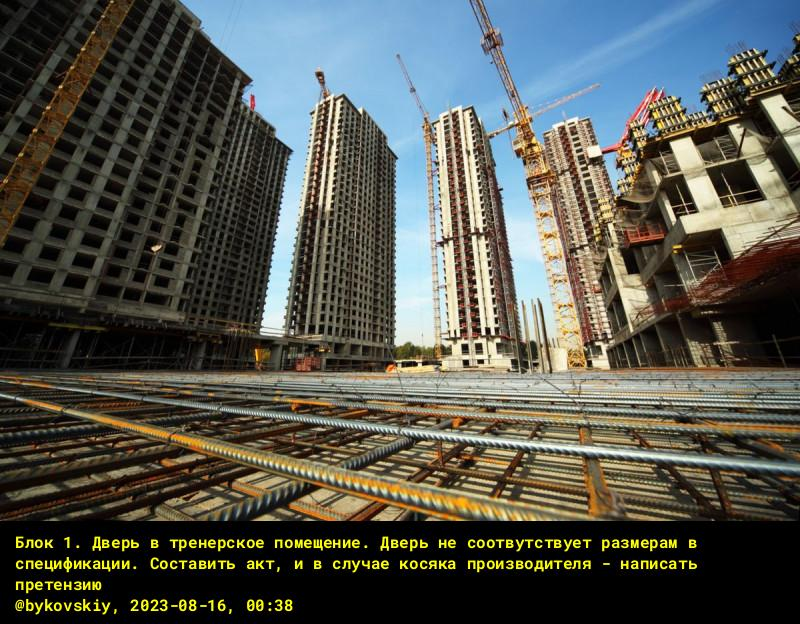
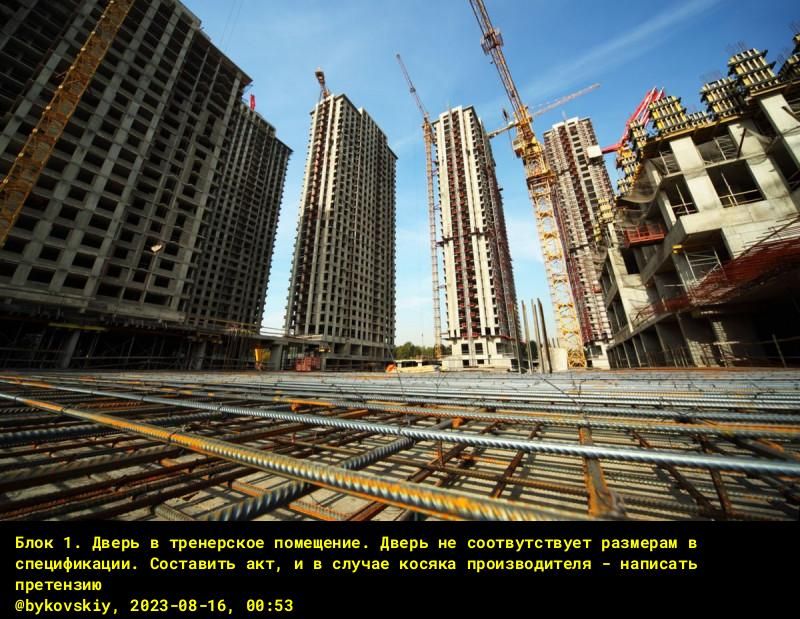
update

diff --git a/main.py b/main.py
@@ -40,15 +40,16 @@ def add_message(image, text, font, text_color, text_start_height, fontsize, spac
     return y_text + fontsize*spacing * math.ceil((len(text) / max_char_count))
     
 
-def make_wrapper(fontsize, text, image, spacing, padding_bottom):
+def make_wrapper(font, fontsize, text, image, spacing, padding_bottom):
     sender_mark_space = 45 + padding_bottom
     
-    lines = textwrap.wrap(text, width=image.width // 10)
+    #lines = textwrap.wrap(text, width=image.width // 10)
     
-    extra_bound_size = 0
-    for _ in lines:
-        extra_bound_size += fontsize*spacing
-    extra_bound_size += sender_mark_space
+    text, max_char_count = get_text_wrapper(font, image, text)
+    #extra_bound_size = 0
+    # for _ in lines:
+    #     extra_bound_size += fontsize*spacing
+    extra_bound_size = sender_mark_space + fontsize*spacing * math.ceil((len(text) / max_char_count))
         
     wrapper = Image.new("RGB", (image.width, image.height + int(extra_bound_size)), "black")
     wrapper.paste(image, (0,0))
@@ -62,7 +63,7 @@ def sender_mark(image_wrapper, message_sender, text_start, font, text_color, pad
     date = current_time.strftime('%Y-%m-%d')
     timer = current_time.strftime('%H:%M')
     
-    text =  f'@{message_sender}, {date}, {timer}'
+    text = f'@{message_sender}, {date}, {timer}'
     #lines = textwrap.wrap(text, width=image_wrapper.width//10)
     
     draw_img = ImageDraw.Draw(image_wrapper)
@@ -110,7 +111,7 @@ def main():
     image = Image.open(f'./images/{image_name}')
     #font, fontsize = get_dynamic_fontsize(image, text, font_name)
     
-    image_wrapper, bound_size = make_wrapper(fontsize, text, image, spacing, padding_bottom)
+    image_wrapper, bound_size = make_wrapper(font, fontsize, text, image, spacing, padding_bottom)
     text_start_height = image_wrapper.height - int(bound_size) + padding_top
     
     text_end_line = add_message(image_wrapper, text, font, text_color, text_start_height, fontsize, spacing, padding_left)
